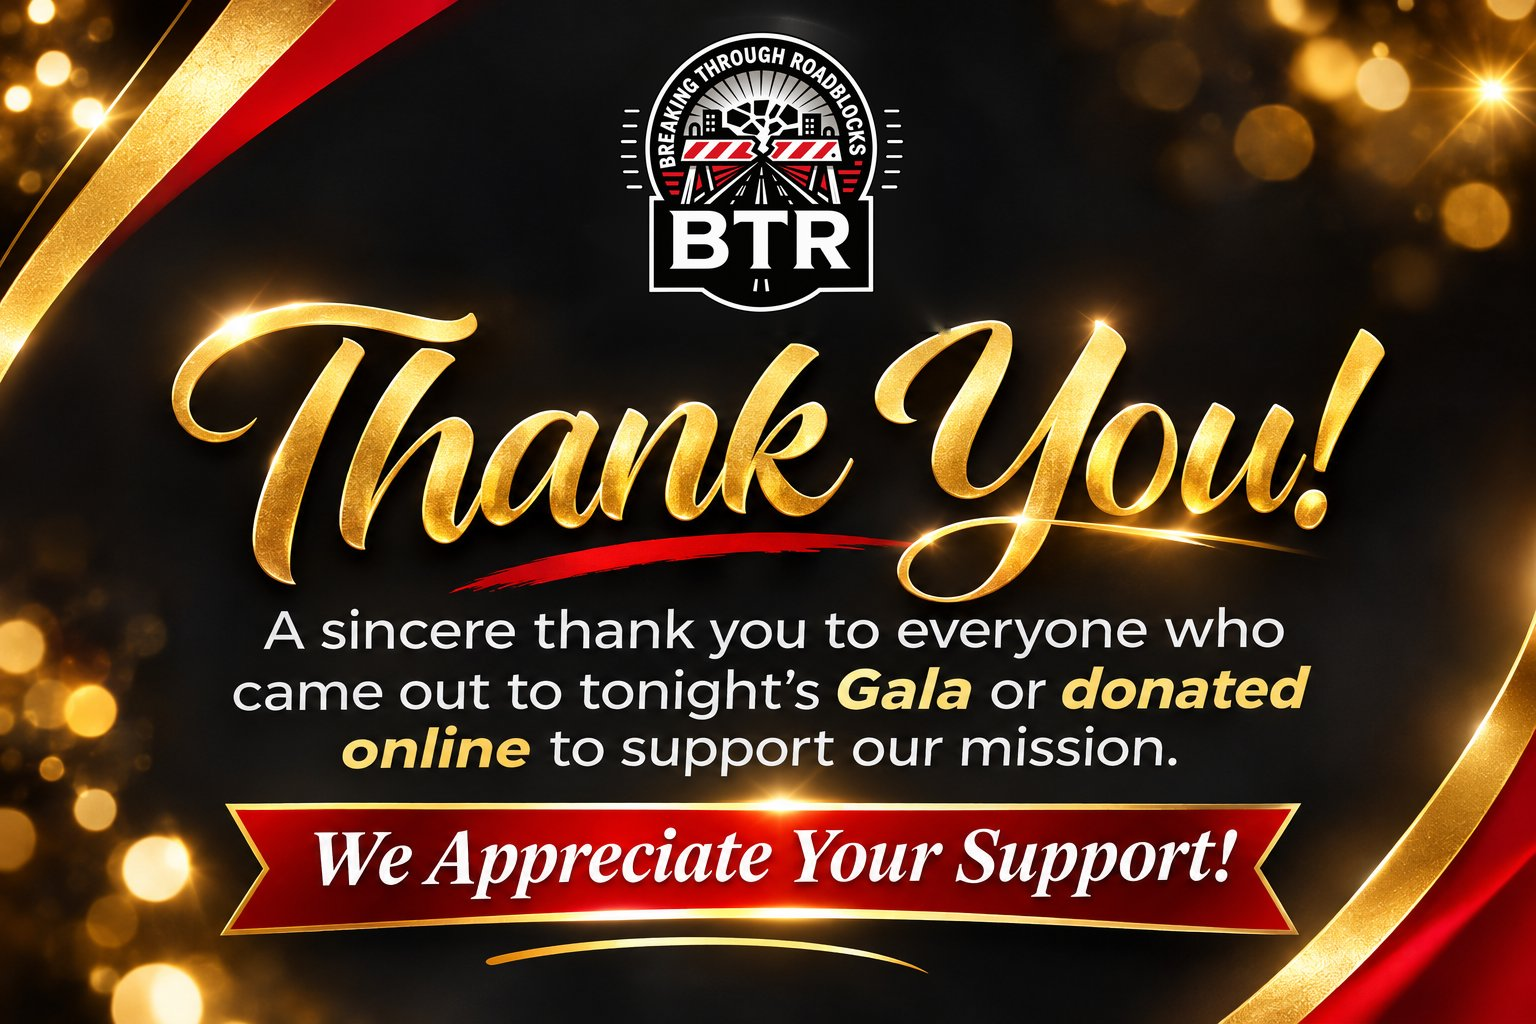
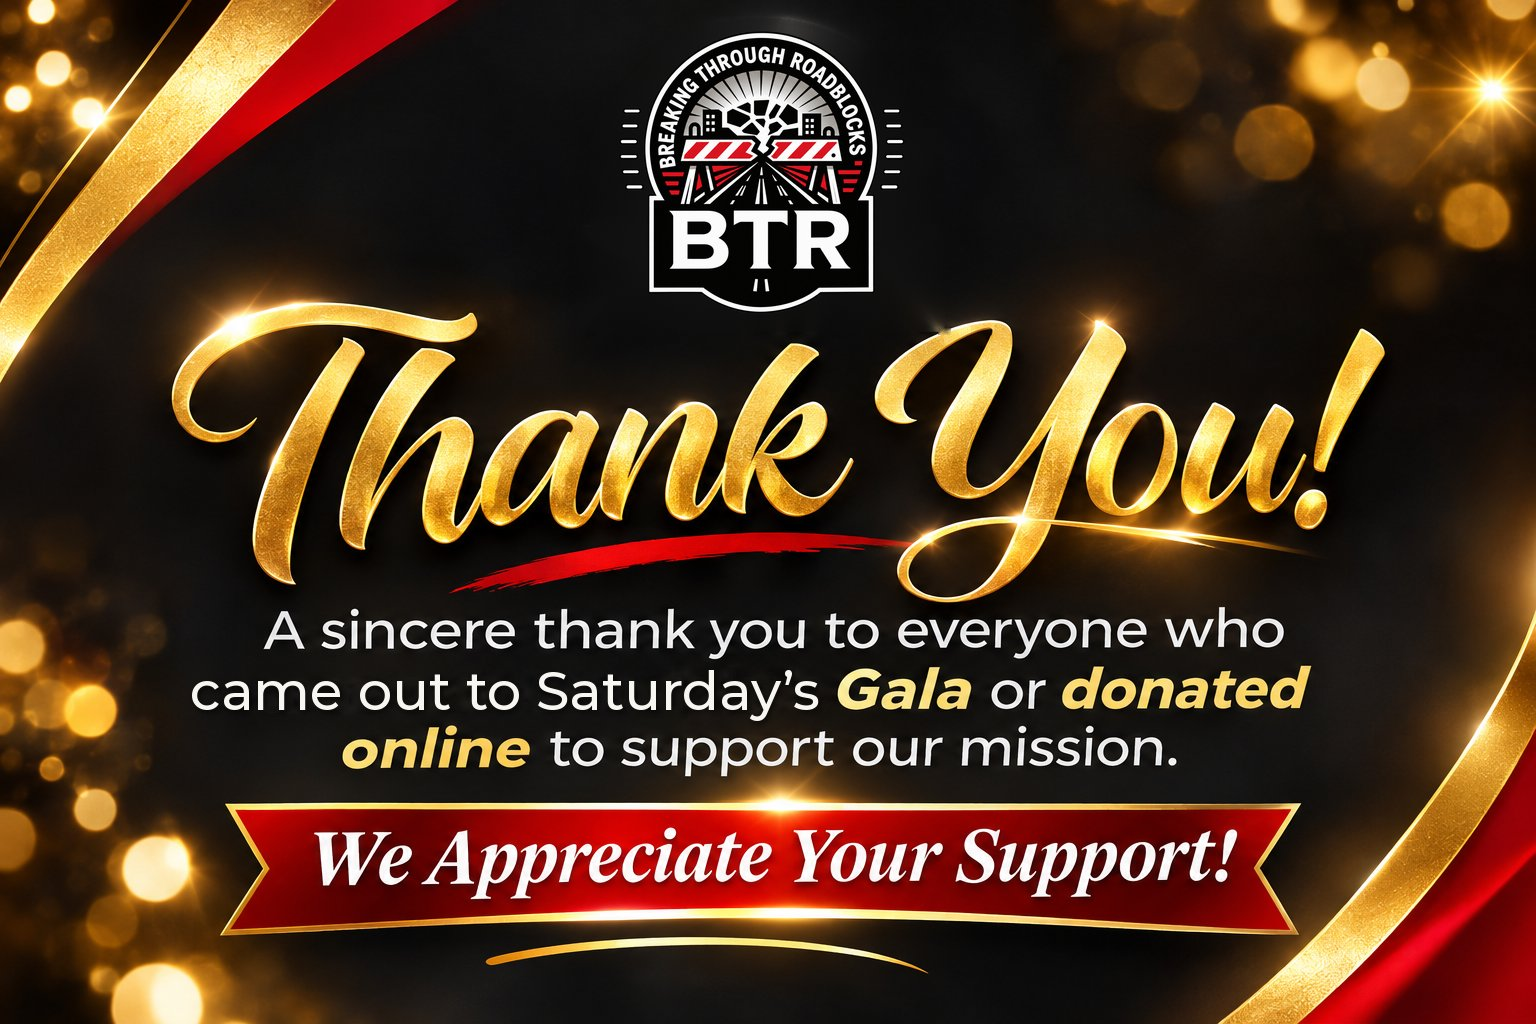
Gala thank-you graphic: tonight's -> Saturday's
Claude-Session: https://claude.ai/code/session_01XNUxE4xD5JZ4BN3KrH4gSr

Changed region(s): [[0.125, 0.6562, 0.5312, 0.7188]]

diff --git a/preview-gala-story-cc8d59.html b/preview-gala-story-cc8d59.html
@@ -6,4 +6,4 @@
 <meta property="og:url" content="https://breakingthroughroadblocks.org/preview-gala-story-cc8d59.html">
 <meta property="og:image" content="https://breakingthroughroadblocks.org/assets/gala/thanks-3.jpg">
 <meta name="twitter:card" content="summary_large_image">
-</head><body><div style="background:#ffd43b;color:#111;text-align:center;padding:10px 16px;font-weight:700;font-size:.9rem">REVIEW DRAFT · Not yet published · Please don’t share outside the BTR team</div><a class="skip" href="#main">Skip to content</a><div class="announcement">Thank you for a sold-out gala! <a href="events.html#upcoming">Next up: T.A.R.G.E.T.S. Co-Ed Outing · December 5</a></div><header><a class="brand" href="index.html"><img class="brand-logo" src="btr-logo-transparent.png" alt="Breaking Through Roadblocks (BTR)" width="590" height="566"></a><button id="menu" aria-label="Open navigation" aria-expanded="false" aria-controls="navigation">Menu</button><nav id="navigation" aria-label="Main navigation"><a href="index.html">Home</a><div class="nav-group"><a href="about.html">About</a><button type="button" class="sub-toggle" aria-expanded="false" aria-controls="sub-about" aria-label="Show About menu"><span aria-hidden="true">▾</span></button><div class="subnav" id="sub-about"><a href="about.html">About BTR</a><a href="board.html">Board of Directors</a></div></div><div class="nav-group"><a href="programs.html">Programs</a><button type="button" class="sub-toggle" aria-expanded="false" aria-controls="sub-programs" aria-label="Show Programs menu"><span aria-hidden="true">▾</span></button><div class="subnav" id="sub-programs"><a href="programs.html#targets">T.A.R.G.E.T.S.</a><a href="programs.html#mens-meetings">Men’s Meetings</a><a href="programs.html#womens-meetings">Women’s Meetings</a></div></div><div class="nav-group"><a href="events.html">Events</a><button type="button" class="sub-toggle" aria-expanded="false" aria-controls="sub-events" aria-label="Show Events menu"><span aria-hidden="true">▾</span></button><div class="subnav" id="sub-events"><a href="events.html">All events</a><a href="event-signin.html">Event sign-in</a></div></div><a href="news.html" aria-current="page">News</a><div class="nav-group"><a href="support.html">Support</a><button type="button" class="sub-toggle" aria-expanded="false" aria-controls="sub-support" aria-label="Show Support menu"><span aria-hidden="true">▾</span></button><div class="subnav" id="sub-support"><a href="support.html">Donate</a><a href="sponsor.html">Become a sponsor</a><a href="contact.html?interest=mentor#message">Become a mentor</a><a href="contact.html?interest=involved#message">I just want to get involved</a></div></div><a href="contact.html">Contact</a><a class="button small" href="https://www.paypal.com/ncp/payment/ZL732ZLWXHD96" target="_blank" rel="noopener">Donate</a></nav></header><main id="main" class="tile-images inner-page"><section class="section page-intro"><p class="eyebrow">BTR NEWS · 2026-11-14</p><h1>A Sold-Out Night of Excellence: BTR’s 2nd Annual Gala</h1></section><section class="section story-section"><img src="assets/gala/thanks-3.jpg" alt="Five smiling guests taking a selfie in the red-lit ballroom at the Evening of Excellence Gala" class="story-cover"><article class="rich-copy"><p>On Saturday, November 14, 2026, Breaking Through Roadblocks hosted its 2nd Annual Evening of Excellence Gala at Generations Banquet Hall in Avon, Massachusetts. The night sold out, filling the room with community leaders, families, mentors, partners, and young people, all there to celebrate achievement, resilience, and the people making a difference in our community.</p><p>Guests arrived in formal attire paired with their favorite statement sneakers, and the room set the tone: gold chargers, red napkins, black candelabras, and a ballroom glowing in BTR red. Emcee Jonathan Allen kept the energy high from start to finish, guiding the evening through dinner, music, celebration, and the moments that mattered most.</p><p><a class="button" href="https://givebutter.com/test-y6oqbq" target="_blank" rel="noopener">Donate on Givebutter ↗</a></p><h2>Celebrating our honorees</h2><p>The heart of the evening was honoring 16 people whose work, growth, and leadership show what it means to break through roadblocks:</p><ul><li><strong>Young Man of Excellence Award:</strong> Joao Rodrigues and Daniel Andrade</li><li><strong>Young Woman of Excellence Award:</strong> Lanai Carey and Jarah Rodrigues</li><li><strong>Breakthrough Award:</strong> Evan Luis Andrade and Terryn Alston</li><li><strong>Pathway to Purpose Award:</strong> Jayden Galvao</li><li><strong>Rising Star:</strong> Kalya Lopes and Darelle Mathieu</li><li><strong>Pathway Partner Award:</strong> Rose Burrows and David Burgo</li><li><strong>Unsung Hero Award:</strong> David Farrell</li><li><strong>Partnership for Progress Award:</strong> Katie Balboni</li><li><strong>Community Impact Award:</strong> Jorge DosSantos</li><li><strong>The Crown Award:</strong> Jessica Castro and Rodney Kornegay</li></ul><p>Congratulations to every honoree, and thank you to the families, mentors, and teachers who stand behind them.</p></article><section class="story-gallery"><h2>Moments from the night</h2><div class="source-gallery gallery-4"><a href="assets/gala/thanks-2.jpg" target="_blank" rel="noopener"><img src="assets/gala/thanks-2.jpg" alt="A gala table set with gold chargers, red napkins and black candelabras" loading="lazy"></a><a href="assets/gala/gala-award.jpg" target="_blank" rel="noopener"><img src="assets/gala/gala-award.jpg" alt="An honoree holding his award on stage with a BTR leader" loading="lazy"></a><a href="assets/gala/thanks-4.jpg" target="_blank" rel="noopener"><img src="assets/gala/thanks-4.jpg" alt="Spirit of Excellence Dance Studio dancers in black and gold at the gala" loading="lazy"></a><a href="assets/gala/gala-sneakers.jpg" target="_blank" rel="noopener"><img src="assets/gala/gala-sneakers.jpg" alt="Two young guests and a BTR mentor in black suits and statement sneakers at the gala" loading="lazy"></a></div></section><img src="assets/gala/gala-thank-you.jpg?v=2" alt="Thank You! A sincere thank you to everyone who came out to the gala or donated online to support our mission. We appreciate your support!" class="story-cover" loading="lazy" width="1536" height="1024"><article class="rich-copy"><h2>Thank you to our sponsors</h2><p>None of this happens without the partners who believe in our mission. Their support powers our mentorship, youth programs, and community events all year long. Thank you to:</p><ul class="sponsor-list"><li>Trefler Foundation</li><li>The Boston Foundation</li><li>Rockland Trust</li><li>Eastern Bank</li><li>City of Brockton, Senator Charles E. Shannon Community Safety Initiative Grant</li><li>Bank of Canton</li><li>Zion’s Photobooths &amp; Entertainment</li><li>Controller Service &amp; Sales</li><li>Andrea Rosario</li><li>I Go To Him</li><li>George Lopes Funeral Home</li><li>Spirit of Excellence Dance Studio</li><li>New Balance</li><li>Johnny Soles</li><li>Texas Roadhouse</li><li>Suffolk</li><li>Jersey Mike’s Subs</li><li>Brockton Public Schools</li><li>Jorge the Mortgage Guy, Total Mortgage</li><li>Brockton High School</li><li>Traders World</li><li>Jovonie Houston</li><li>ACVB-CARE</li><li>Brack’s Grille &amp; Tap</li><li>Left Field Project Management</li><li>Brockton Public Library</li><li>Sweet Plantain Strings</li><li>Liberty Printing</li><li>South Shore Wallpaper</li></ul><h2>The work continues</h2><p>Every ticket, table, and sponsorship invests directly in mentorship, leadership development, and programs that help youth and families overcome obstacles and reach their full potential. If you missed the gala, you can still be part of what comes next.</p></article><div class="actions"><a class="button" href="https://givebutter.com/test-y6oqbq" target="_blank" rel="noopener">Donate on Givebutter ↗</a><a class="text-link" href="sponsor.html">Become a sponsor</a><a class="text-link" href="news.html">All BTR news</a></div></section></main><footer class="final-footer"><div><a class="brand" href="index.html"><img class="brand-logo" src="btr-logo-transparent.png" alt="Breaking Through Roadblocks (BTR)" width="590" height="566"></a><p>From Roadblocks to Breakthroughs.</p><div class="footer-social"><a href="https://www.instagram.com/breaking_through_roadblocks/" target="_blank" rel="noopener" aria-label="BTR on Instagram (opens in a new tab)"><svg viewBox="0 0 24 24" width="20" height="20" aria-hidden="true" focusable="false"><rect x="3" y="3" width="18" height="18" rx="5" fill="none" stroke="currentColor" stroke-width="2"/><circle cx="12" cy="12" r="4" fill="none" stroke="currentColor" stroke-width="2"/><circle cx="17.5" cy="6.5" r="1.3" fill="currentColor"/></svg></a><a href="https://www.facebook.com/profile.php?id=100095442188513" target="_blank" rel="noopener" aria-label="BTR on Facebook (opens in a new tab)"><svg viewBox="0 0 24 24" width="20" height="20" aria-hidden="true" focusable="false"><path fill="currentColor" d="M13.5 21v-7.5h2.6l.4-3h-3V8.6c0-.9.3-1.5 1.5-1.5h1.6V4.4c-.3 0-1.2-.1-2.3-.1-2.3 0-3.9 1.4-3.9 4v2.2H7.8v3h2.6V21h3.1z"/></svg></a></div></div><div class="footer-column"><h3>Explore BTR</h3><a href="about.html">About BTR</a><a href="board.html">Our board</a><a href="programs.html">Programs</a><a href="news.html">News</a></div><div class="footer-column"><h3>Get Involved</h3><a href="support.html">Support BTR</a><a href="sponsor.html">Sponsorship</a><a href="events.html">Events</a><a href="contact.html">Contact</a></div><div class="footer-column"><h3>Community</h3><a href="code-of-conduct.html">Code of conduct</a><a href="terms.html">Terms &amp; conditions</a><a href="privacy.html">Privacy policy</a><a href="accessibility.html">Accessibility</a></div><div class="footer-bottom"><p>© 2026 Breaking Through Roadblocks, Inc.</p><p>Designed by DrewBreezy MediaPowered</p></div></footer><script src="script.js?v=20261116004245"></script></body></html>
+</head><body><div style="background:#ffd43b;color:#111;text-align:center;padding:10px 16px;font-weight:700;font-size:.9rem">REVIEW DRAFT · Not yet published · Please don’t share outside the BTR team</div><a class="skip" href="#main">Skip to content</a><div class="announcement">Thank you for a sold-out gala! <a href="events.html#upcoming">Next up: T.A.R.G.E.T.S. Co-Ed Outing · December 5</a></div><header><a class="brand" href="index.html"><img class="brand-logo" src="btr-logo-transparent.png" alt="Breaking Through Roadblocks (BTR)" width="590" height="566"></a><button id="menu" aria-label="Open navigation" aria-expanded="false" aria-controls="navigation">Menu</button><nav id="navigation" aria-label="Main navigation"><a href="index.html">Home</a><div class="nav-group"><a href="about.html">About</a><button type="button" class="sub-toggle" aria-expanded="false" aria-controls="sub-about" aria-label="Show About menu"><span aria-hidden="true">▾</span></button><div class="subnav" id="sub-about"><a href="about.html">About BTR</a><a href="board.html">Board of Directors</a></div></div><div class="nav-group"><a href="programs.html">Programs</a><button type="button" class="sub-toggle" aria-expanded="false" aria-controls="sub-programs" aria-label="Show Programs menu"><span aria-hidden="true">▾</span></button><div class="subnav" id="sub-programs"><a href="programs.html#targets">T.A.R.G.E.T.S.</a><a href="programs.html#mens-meetings">Men’s Meetings</a><a href="programs.html#womens-meetings">Women’s Meetings</a></div></div><div class="nav-group"><a href="events.html">Events</a><button type="button" class="sub-toggle" aria-expanded="false" aria-controls="sub-events" aria-label="Show Events menu"><span aria-hidden="true">▾</span></button><div class="subnav" id="sub-events"><a href="events.html">All events</a><a href="event-signin.html">Event sign-in</a></div></div><a href="news.html" aria-current="page">News</a><div class="nav-group"><a href="support.html">Support</a><button type="button" class="sub-toggle" aria-expanded="false" aria-controls="sub-support" aria-label="Show Support menu"><span aria-hidden="true">▾</span></button><div class="subnav" id="sub-support"><a href="support.html">Donate</a><a href="sponsor.html">Become a sponsor</a><a href="contact.html?interest=mentor#message">Become a mentor</a><a href="contact.html?interest=involved#message">I just want to get involved</a></div></div><a href="contact.html">Contact</a><a class="button small" href="https://www.paypal.com/ncp/payment/ZL732ZLWXHD96" target="_blank" rel="noopener">Donate</a></nav></header><main id="main" class="tile-images inner-page"><section class="section page-intro"><p class="eyebrow">BTR NEWS · 2026-11-14</p><h1>A Sold-Out Night of Excellence: BTR’s 2nd Annual Gala</h1></section><section class="section story-section"><img src="assets/gala/thanks-3.jpg" alt="Five smiling guests taking a selfie in the red-lit ballroom at the Evening of Excellence Gala" class="story-cover"><article class="rich-copy"><p>On Saturday, November 14, 2026, Breaking Through Roadblocks hosted its 2nd Annual Evening of Excellence Gala at Generations Banquet Hall in Avon, Massachusetts. The night sold out, filling the room with community leaders, families, mentors, partners, and young people, all there to celebrate achievement, resilience, and the people making a difference in our community.</p><p>Guests arrived in formal attire paired with their favorite statement sneakers, and the room set the tone: gold chargers, red napkins, black candelabras, and a ballroom glowing in BTR red. Emcee Jonathan Allen kept the energy high from start to finish, guiding the evening through dinner, music, celebration, and the moments that mattered most.</p><p><a class="button" href="https://givebutter.com/test-y6oqbq" target="_blank" rel="noopener">Donate on Givebutter ↗</a></p><h2>Celebrating our honorees</h2><p>The heart of the evening was honoring 16 people whose work, growth, and leadership show what it means to break through roadblocks:</p><ul><li><strong>Young Man of Excellence Award:</strong> Joao Rodrigues and Daniel Andrade</li><li><strong>Young Woman of Excellence Award:</strong> Lanai Carey and Jarah Rodrigues</li><li><strong>Breakthrough Award:</strong> Evan Luis Andrade and Terryn Alston</li><li><strong>Pathway to Purpose Award:</strong> Jayden Galvao</li><li><strong>Rising Star:</strong> Kalya Lopes and Darelle Mathieu</li><li><strong>Pathway Partner Award:</strong> Rose Burrows and David Burgo</li><li><strong>Unsung Hero Award:</strong> David Farrell</li><li><strong>Partnership for Progress Award:</strong> Katie Balboni</li><li><strong>Community Impact Award:</strong> Jorge DosSantos</li><li><strong>The Crown Award:</strong> Jessica Castro and Rodney Kornegay</li></ul><p>Congratulations to every honoree, and thank you to the families, mentors, and teachers who stand behind them.</p></article><section class="story-gallery"><h2>Moments from the night</h2><div class="source-gallery gallery-4"><a href="assets/gala/thanks-2.jpg" target="_blank" rel="noopener"><img src="assets/gala/thanks-2.jpg" alt="A gala table set with gold chargers, red napkins and black candelabras" loading="lazy"></a><a href="assets/gala/gala-award.jpg" target="_blank" rel="noopener"><img src="assets/gala/gala-award.jpg" alt="An honoree holding his award on stage with a BTR leader" loading="lazy"></a><a href="assets/gala/thanks-4.jpg" target="_blank" rel="noopener"><img src="assets/gala/thanks-4.jpg" alt="Spirit of Excellence Dance Studio dancers in black and gold at the gala" loading="lazy"></a><a href="assets/gala/gala-sneakers.jpg" target="_blank" rel="noopener"><img src="assets/gala/gala-sneakers.jpg" alt="Two young guests and a BTR mentor in black suits and statement sneakers at the gala" loading="lazy"></a></div></section><img src="assets/gala/gala-thank-you.jpg?v=3" alt="Thank You! A sincere thank you to everyone who came out to Saturday’s Gala or donated online to support our mission. We appreciate your support!" class="story-cover" loading="lazy" width="1536" height="1024"><article class="rich-copy"><h2>Thank you to our sponsors</h2><p>None of this happens without the partners who believe in our mission. Their support powers our mentorship, youth programs, and community events all year long. Thank you to:</p><ul class="sponsor-list"><li>Trefler Foundation</li><li>The Boston Foundation</li><li>Rockland Trust</li><li>Eastern Bank</li><li>City of Brockton, Senator Charles E. Shannon Community Safety Initiative Grant</li><li>Bank of Canton</li><li>Zion’s Photobooths &amp; Entertainment</li><li>Controller Service &amp; Sales</li><li>Andrea Rosario</li><li>I Go To Him</li><li>George Lopes Funeral Home</li><li>Spirit of Excellence Dance Studio</li><li>New Balance</li><li>Johnny Soles</li><li>Texas Roadhouse</li><li>Suffolk</li><li>Jersey Mike’s Subs</li><li>Brockton Public Schools</li><li>Jorge the Mortgage Guy, Total Mortgage</li><li>Brockton High School</li><li>Traders World</li><li>Jovonie Houston</li><li>ACVB-CARE</li><li>Brack’s Grille &amp; Tap</li><li>Left Field Project Management</li><li>Brockton Public Library</li><li>Sweet Plantain Strings</li><li>Liberty Printing</li><li>South Shore Wallpaper</li></ul><h2>The work continues</h2><p>Every ticket, table, and sponsorship invests directly in mentorship, leadership development, and programs that help youth and families overcome obstacles and reach their full potential. If you missed the gala, you can still be part of what comes next.</p></article><div class="actions"><a class="button" href="https://givebutter.com/test-y6oqbq" target="_blank" rel="noopener">Donate on Givebutter ↗</a><a class="text-link" href="sponsor.html">Become a sponsor</a><a class="text-link" href="news.html">All BTR news</a></div></section></main><footer class="final-footer"><div><a class="brand" href="index.html"><img class="brand-logo" src="btr-logo-transparent.png" alt="Breaking Through Roadblocks (BTR)" width="590" height="566"></a><p>From Roadblocks to Breakthroughs.</p><div class="footer-social"><a href="https://www.instagram.com/breaking_through_roadblocks/" target="_blank" rel="noopener" aria-label="BTR on Instagram (opens in a new tab)"><svg viewBox="0 0 24 24" width="20" height="20" aria-hidden="true" focusable="false"><rect x="3" y="3" width="18" height="18" rx="5" fill="none" stroke="currentColor" stroke-width="2"/><circle cx="12" cy="12" r="4" fill="none" stroke="currentColor" stroke-width="2"/><circle cx="17.5" cy="6.5" r="1.3" fill="currentColor"/></svg></a><a href="https://www.facebook.com/profile.php?id=100095442188513" target="_blank" rel="noopener" aria-label="BTR on Facebook (opens in a new tab)"><svg viewBox="0 0 24 24" width="20" height="20" aria-hidden="true" focusable="false"><path fill="currentColor" d="M13.5 21v-7.5h2.6l.4-3h-3V8.6c0-.9.3-1.5 1.5-1.5h1.6V4.4c-.3 0-1.2-.1-2.3-.1-2.3 0-3.9 1.4-3.9 4v2.2H7.8v3h2.6V21h3.1z"/></svg></a></div></div><div class="footer-column"><h3>Explore BTR</h3><a href="about.html">About BTR</a><a href="board.html">Our board</a><a href="programs.html">Programs</a><a href="news.html">News</a></div><div class="footer-column"><h3>Get Involved</h3><a href="support.html">Support BTR</a><a href="sponsor.html">Sponsorship</a><a href="events.html">Events</a><a href="contact.html">Contact</a></div><div class="footer-column"><h3>Community</h3><a href="code-of-conduct.html">Code of conduct</a><a href="terms.html">Terms &amp; conditions</a><a href="privacy.html">Privacy policy</a><a href="accessibility.html">Accessibility</a></div><div class="footer-bottom"><p>© 2026 Breaking Through Roadblocks, Inc.</p><p>Designed by DrewBreezy MediaPowered</p></div></footer><script src="script.js?v=20261116004245"></script></body></html>
